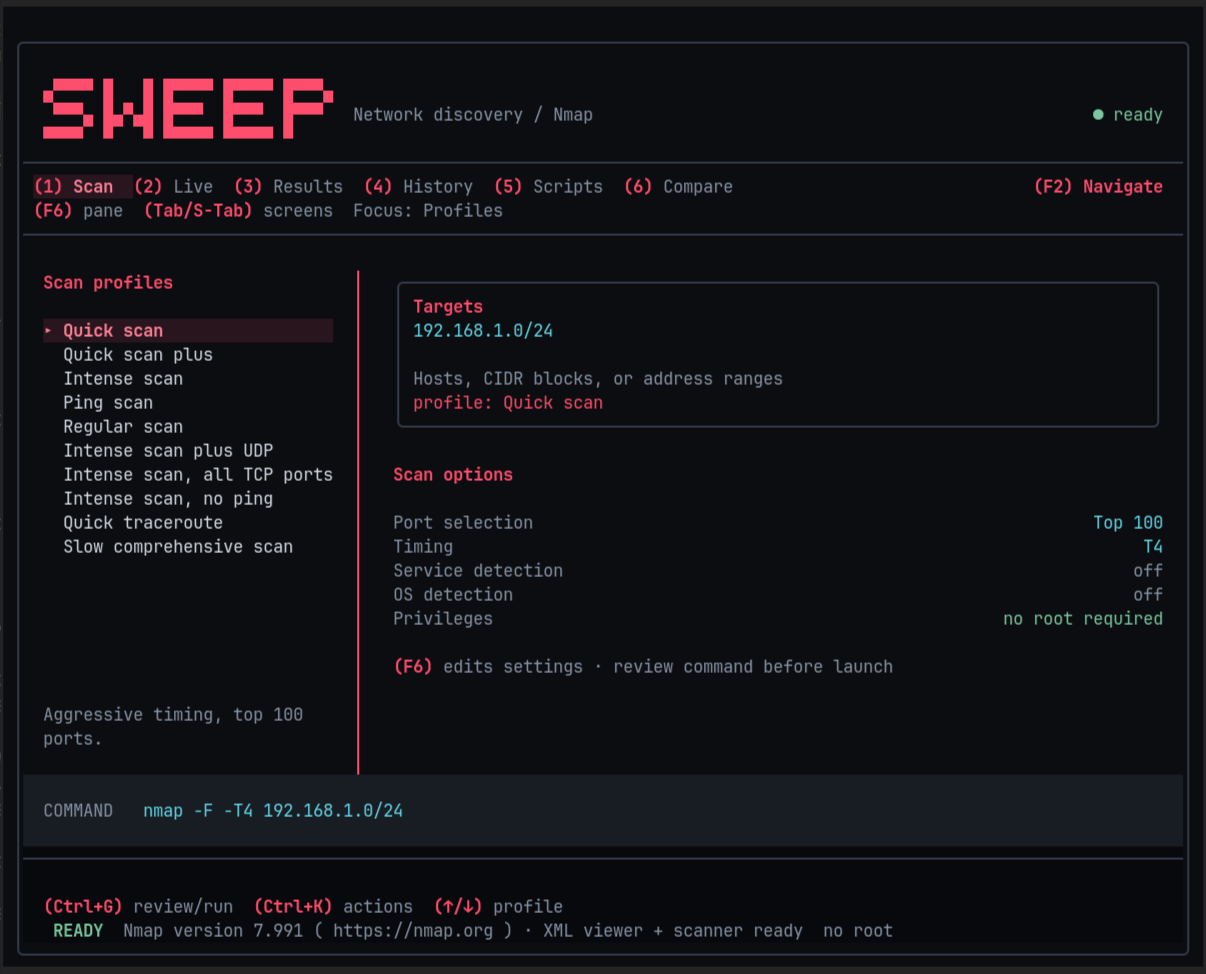
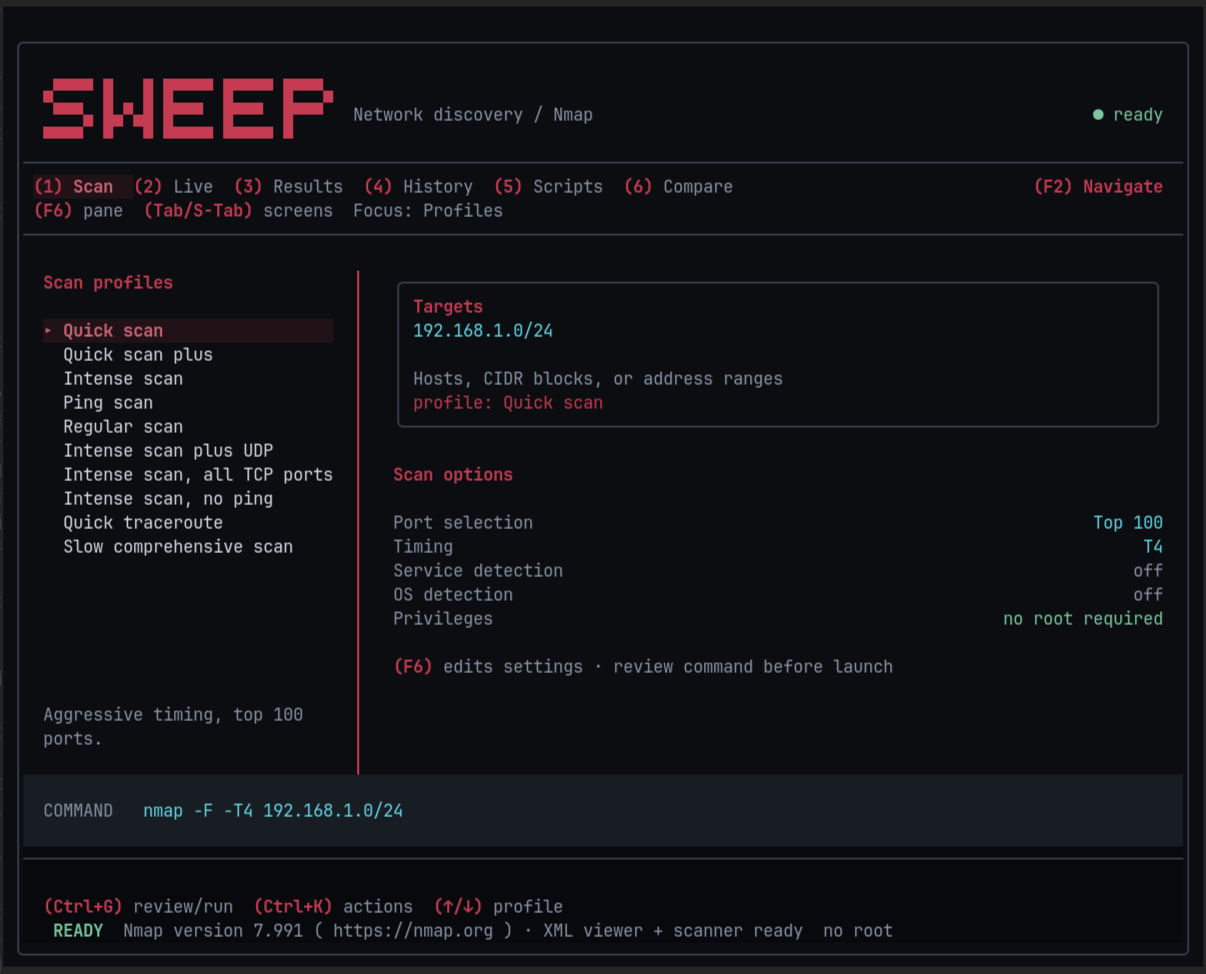
Darken Crimson accents, selections and error colors

diff --git a/src/theme/palette.rs b/src/theme/palette.rs
@@ -640,11 +640,11 @@ pub fn crimson() -> Theme {
         "Crimson",
         Kind::Dark,
         [
-            "0b0d10", "07090c", "181c23", "343b47", "28151e", "d6dbe4", "8793a5", "8793a5",
-            "ff4d6d", "ff6b6b", "e5b56d", "7ac7a0", "64d8e8", "64d8e8", "ff4d6d",
+            "0b0d10", "07090c", "181c23", "343b47", "211218", "d6dbe4", "8793a5", "8793a5",
+            "c43b52", "cc5050", "e5b56d", "7ac7a0", "64d8e8", "64d8e8", "c43b52",
         ],
     );
-    theme.selection_fg = hex("ff8298");
+    theme.selection_fg = hex("cf6578");
     theme
 }
 #[cfg(test)]
@@ -656,10 +656,10 @@ mod crimson_tests {
         assert_eq!(theme.id, "crimson");
         assert!(CHOICES.iter().any(|c| c.id == "crimson"));
         assert_eq!(theme.bg, hex("0b0d10"));
-        assert_eq!(theme.accent, hex("ff4d6d"));
+        assert_eq!(theme.accent, hex("c43b52"));
         assert_eq!(theme.cyan, hex("64d8e8"));
-        assert_eq!(theme.selection, hex("28151e"));
-        assert_eq!(theme.selection_fg, hex("ff8298"));
+        assert_eq!(theme.selection, hex("211218"));
+        assert_eq!(theme.selection_fg, hex("cf6578"));
         assert_ne!(theme.green, theme.accent);
         assert_ne!(theme.yellow, theme.red);
         assert_eq!(resolve("unknown", None).id, "crimson");

diff --git a/src/theme.rs b/src/theme.rs
@@ -185,8 +185,8 @@ mod security_theme_persistence {
                 assert_eq!(bg_color(), palette::hex("171820"));
             }
             if id == "crimson" {
-                assert_eq!(selected().bg, Some(palette::hex("28151e")));
-                assert_eq!(selected().fg, Some(palette::hex("ff8298")));
+                assert_eq!(selected().bg, Some(palette::hex("211218")));
+                assert_eq!(selected().fg, Some(palette::hex("cf6578")));
             }
         }
         std::fs::write(&path, "host = \"localhost\"\n").unwrap();

diff --git a/docs/themes.md b/docs/themes.md
@@ -1,6 +1,6 @@
 # Crimson
 
-Crimson is the default security-console theme: near-black surfaces, crimson focus and shortcut caps, steel-gray text, cyan data, green success, amber warnings, and red errors. Selected rows use a dark crimson background and lighter crimson text. Titles now use larger native terminal pixel lettering in the solid active theme accent (Crimson #FF4D6D), matching focused borders and shortcut caps. Navigation and other theme colors remain intact.
+Crimson is the default security-console theme: near-black surfaces, crimson focus and shortcut caps, steel-gray text, cyan data, green success, amber warnings, and red errors. Selected rows use a dark crimson background and lighter crimson text. Titles now use larger native terminal pixel lettering in the solid active theme accent (Crimson #C43B52), matching focused borders and shortcut caps. Navigation and other theme colors remain intact.
 
 Open **Ctrl+K**, search for **Crimson theme** or **Aurora theme**, and press Enter. Aurora remains available alongside Follow Omarchy and Terminal. Missing or unknown theme IDs fall back to Crimson; explicit saved choices are preserved.
 
@@ -11,3 +11,5 @@ Verification: both security tools passed theme-resolution and config round-trip 
 See [navigation verification](navigation.md). README screenshots show actual Foot renders with sample data; no scan or exploitation against a target was run.
 
 Pixel titles were checked in actual Foot screenshots at 120×40, 100×30, 80×24, and 60×20. Native block glyphs replace the smooth Sixel overlay, so the same pixel lettering works without image support. Breach’s compact host list reserves enough room for its selected row beneath the taller header.
+
+Crimson’s reds were darkened throughout: accent/title/borders/shortcuts #C43B52, selected text #CF6578, errors #CC5050, and selection background #211218. The refreshed actual Foot captures were inspected in wide and compact layouts; 96 security-tool tests passed.

diff --git a/docs/navigation.md b/docs/navigation.md
@@ -46,6 +46,6 @@ Sweep and Breach now render their names as larger solid-red terminal pixels, wit
 
 ## Final shared pixel headers — 2026-10-13
 
-All five titles use the same native terminal pixel geometry and size. Glim, Platter, and Luma preserve their accent-to-data gradients. Sweep and Breach use a solid theme accent so their title color matches focused borders and shortcut caps (Crimson #FF4D6D by default). Long titles preserve connection status above the pixels when it cannot fit beside them. Updated actual Foot screenshots: `/home/ken/Projects/work/tui-previews/final-pixel/`.
+All five titles use the same native terminal pixel geometry and size. Glim, Platter, and Luma preserve their accent-to-data gradients. Sweep and Breach use a solid theme accent so their title color matches focused borders and shortcut caps (Crimson #C43B52 by default). Long titles preserve connection status above the pixels when it cannot fit beside them. Updated actual Foot screenshots: `/home/ken/Projects/work/tui-previews/final-pixel/`.
 
 Final verification: `cargo fmt --check`, `cargo test --locked`, and `cargo build --release --locked` passed. Installed binaries match those release builds. Four-size PTY checks in mouse and `--no-mouse` modes passed for all five apps, including navigation, resizing, clean exit, termios, alternate-screen restoration, and mouse release (40 checks total).
